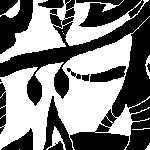
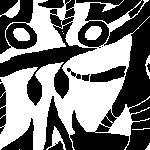
Add 57, fix 56

diff --git a/test.html b/test.html
@@ -17,7 +17,7 @@
 	</div>
 	<script>
 		$(function(){
-			YONOCOSM.addSet("set_og",{"topLevel": 56,"dimensions": 150});
+			YONOCOSM.addSet("set_og",{"topLevel": 57,"dimensions": 150});
 			YONOCOSM.init({"displayDepth":4, "setId":"set_og"});
 			$("#slideshow_button").on("click", function(){
 				YONOCOSM.clearAllViews();
@@ -26,7 +26,7 @@
 			$("#levellist_button").on("click", function(){
 				YONOCOSM.clearAllViews();
 				YONOCOSM.displayListOfLevels();
-				//YONOCOSM.displayListOfLevels(54,6);
+				//YONOCOSM.displayListOfLevels(54,5);
 			});
 			$("#piecelist_button").on("click", function(){
 				YONOCOSM.clearAllViews();
